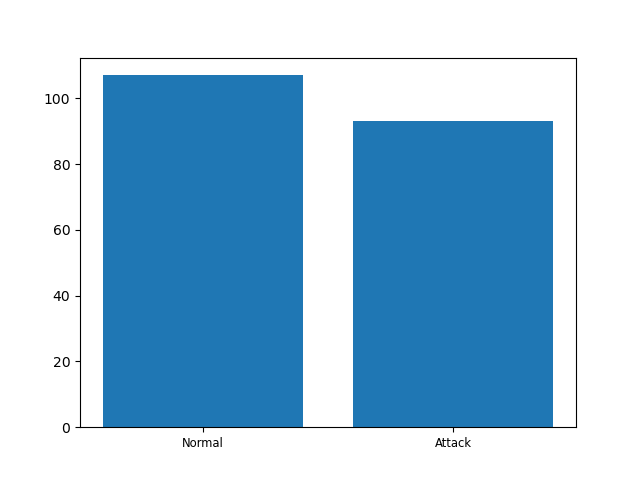
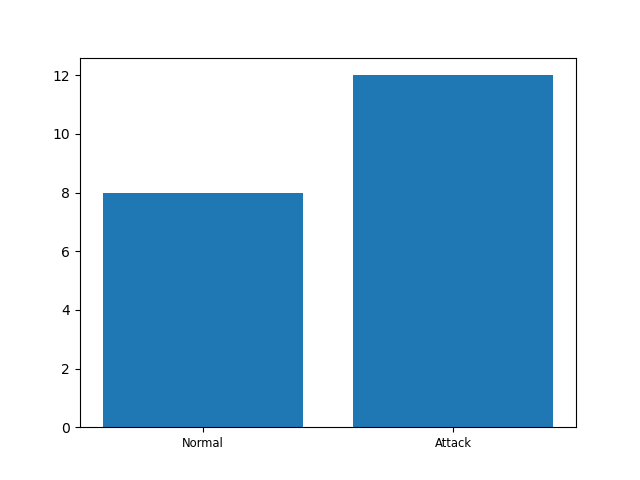
Added Testing functionalities

diff --git a/secure_pos/src/segregation_system/Objects/SegregationSystemController.py b/secure_pos/src/segregation_system/Objects/SegregationSystemController.py
@@ -1,13 +1,15 @@
+import json
 import os
 import sys
 import threading
+import random
 
 import pandas as pd
 
 from sklearn.model_selection import train_test_split
 
 from segregation_system.Objects import DataExtractor
-from segregation_system.Objects.CommunicationController import CommunicationController
+from segregation_system.Objects.CommunicationController import CommunicationController, send_to_testing_system
 from segregation_system.Objects.DBHandler import DBHandler
 from segregation_system.Objects.SegregationSystemConfiguration import SegregationSystemConfiguration
 from segregation_system.Objects.ResponseExtractor import ResponseExtractor
@@ -16,6 +18,11 @@ from segregation_system.Objects.Plotters import PlotterHistogram, PlotterRadarDi
 PATH_DB = "./database/segregationSystemDatabase.db"
 BALANCING_REPORT_PATH = "./graphs/Balancing_plot.png"
 QUALITY_REPORT_PATH = "./graphs/radar_diagram.png"
+
+TESTING_PHASE = True
+SERVER_STARTED = False
+TEST_RUN_NR = 0
+TEST_SESSIONS_PER_RUN =  [50, 100, 200, 300, 400, 500]
 
 
 class SegregationSystemController:
@@ -29,6 +36,7 @@ class SegregationSystemController:
         self.lock = threading.RLock()
         self.mode = 0
         self.sessions_nr = 0
+        self.semaphore = threading.Semaphore(0)
 
     def check_balancing(self):
         """
@@ -44,6 +52,23 @@ class SegregationSystemController:
         plotter.plot_data_balancing()
 
         # The system now needs to stop, we need to wait the Data Analyst evaluation
+        if TESTING_PHASE:
+            random_number = random.randint(0, 9)
+            # Set as 20% failure, 80% success
+            if random_number >= 8:
+                with open('./responses/balancing_response.json', 'r', encoding='utf-8') as opened_file:
+                    data = json.load(opened_file)
+                    data['response'] = 'No'
+                with open('./responses/balancing_response.json', 'w', encoding='utf-8') as response:
+                    json.dump(data, response)
+            else:
+                with open('./responses/balancing_response.json', 'r', encoding='utf-8') as opened_file:
+                    data = json.load(opened_file)
+                    data['response'] = 'Yes'
+                with open('./responses/balancing_response.json', 'w', encoding='utf-8') as response:
+                    json.dump(data, response)
+            self.check_response()
+
         sys.exit(0)
 
     def check_quality(self):
@@ -51,6 +76,7 @@ class SegregationSystemController:
         Method that calls the API that extracts the data
         and plot them in order to evaluate the data quality
         """
+
         data_extractor = DataExtractor.DataExtractor(self.db_handler)
         data = data_extractor.extract_features()
 
@@ -58,6 +84,23 @@ class SegregationSystemController:
         plotter.plot_data_quality()
 
         # The system now needs to stop, we need to wait the Data Analyst evaluation
+        if TESTING_PHASE:
+            random_number = random.randint(0, 9)
+            # Set as 20% failure, 80% success
+            if random_number >= 2:
+                with open('./responses/quality_response.json', 'r', encoding='utf-8') as opened_file:
+                    data = json.load(opened_file)
+                    data['response'] = 'No'
+                with open('./responses/quality_response.json', 'w', encoding='utf-8') as response:
+                    json.dump(data, response)
+            else:
+                with open('./responses/quality_response.json', 'r', encoding='utf-8') as opened_file:
+                    data = json.load(opened_file)
+                    data['response'] = 'Yes'
+                with open('./responses/quality_response.json', 'w', encoding='utf-8') as response:
+                    json.dump(data, response)
+            self.check_response()
+
         sys.exit(0)
 
     def generate_datasets(self):
@@ -115,6 +158,11 @@ class SegregationSystemController:
             self.mode = 0
 
         self.db_handler.db_connection.drop_database()
+
+        # New testing phase
+        if TESTING_PHASE:
+            self.check_response()
+
         sys.exit(0)
 
     def check_response(self):
@@ -131,6 +179,8 @@ class SegregationSystemController:
                         continued its execution until the radar diagram has been generated, the
                         system suspended again waiting for the Data Analyst response
         """
+        global SERVER_STARTED
+
         extractor = ResponseExtractor()
 
         result_balancing = extractor.extract_json_response_balancing()
@@ -141,9 +191,12 @@ class SegregationSystemController:
             elif result_balancing in ['no', 'No']:
                 print('Negative response: send a configuration request to'
                       ' System Administrator for balancing problems')
+                if TESTING_PHASE:
+                    send_to_testing_system(1)
             else:
                 print('Unknown response: please write "yes" or "no" inside the file')
-            sys.exit(0)
+            if not TESTING_PHASE:
+                sys.exit(0)
 
         result_quality = extractor.extract_json_response_quality()
 
@@ -154,18 +207,27 @@ class SegregationSystemController:
             elif result_quality in ['no', 'No']:
                 print('Negative response: send a configuration request to'
                       ' System Administrator for quality problems')
+                if TESTING_PHASE:
+                    send_to_testing_system(2)
             else:
                 print('Unknown response: please write "yes" or "no" inside the file')
 
         # If nothing has been set means that the rest server has to be started
 
         # First drop the DB
-        self.db_handler.db_connection.drop_database()
+        if not SERVER_STARTED:
+            self.db_handler.db_connection.drop_database()
+            SERVER_STARTED = True
+            communication_controller = \
+                CommunicationController(self.db_handler,
+                                        self.config_file.development_system_url,
+                                        self)
+            flask_thread = threading.Thread(target=communication_controller.init_rest_server,
+                                            daemon=True)
+            flask_thread.start()
 
-        communication_controller = CommunicationController(self.db_handler,
-                                                           self.config_file.development_system_url,
-                                                           self)
-        communication_controller.init_rest_server()
+        self.semaphore.acquire()
+        self.check_balancing()
 
     def manage_message(self, file_json):
         """
@@ -173,6 +235,8 @@ class SegregationSystemController:
         :param file_json: arrived data
         :return: None
         """
+        global TEST_RUN_NR
+
         # If our system is involved with data balancing and quality I cannot
         # accept more prepared sessions so the system discards them
         with self.lock:
@@ -196,9 +260,12 @@ class SegregationSystemController:
                 return
             self.sessions_nr += 1
             print(self.sessions_nr)
-            if self.sessions_nr != self.config_file.session_nr_threshold:
-                sys.exit(0)
-
+            if not TESTING_PHASE:
+                if self.sessions_nr != self.config_file.session_nr_threshold:
+                    sys.exit(0)
+            else:
+                if self.sessions_nr != TEST_SESSIONS_PER_RUN[TESTING_PHASE]:
+                    sys.exit(0)
             self.sessions_nr = 0
             self.mode = 1
-        self.check_balancing()
+        self.semaphore.release()

diff --git a/secure_pos/src/segregation_system/Objects/CommunicationController.py b/secure_pos/src/segregation_system/Objects/CommunicationController.py
@@ -1,5 +1,7 @@
 import logging
 import threading
+from datetime import datetime
+
 import requests
 
 from communication import RestServer
@@ -52,3 +54,20 @@ class CommunicationController:
                 logging.error("Failed to send raw dataset")
         except requests.exceptions.RequestException as ex:
             logging.error("Unable to send raw datasets.\tException %s", ex)
+
+
+def send_to_testing_system(scenario):
+    print(f"Sending scenario: {scenario} to testing system")
+    timestamp = datetime.strftime(datetime.now(), "%Y-%m-%d %H:%M:%S.%f")
+    # Create a dictionary with requested data
+    dictionary = {
+        'scenario_id': scenario,
+        'timestamp': timestamp
+    }
+    # Send data
+    try:
+        response = requests.post('http://25.34.31.202:1234', json=dictionary)
+        if not response.ok:
+            logging.error("Failed to send raw dataset")
+    except requests.exceptions.RequestException as ex:
+        logging.error(f"Unable to send scenario msg to testing system.\tException %{ex}\n")
